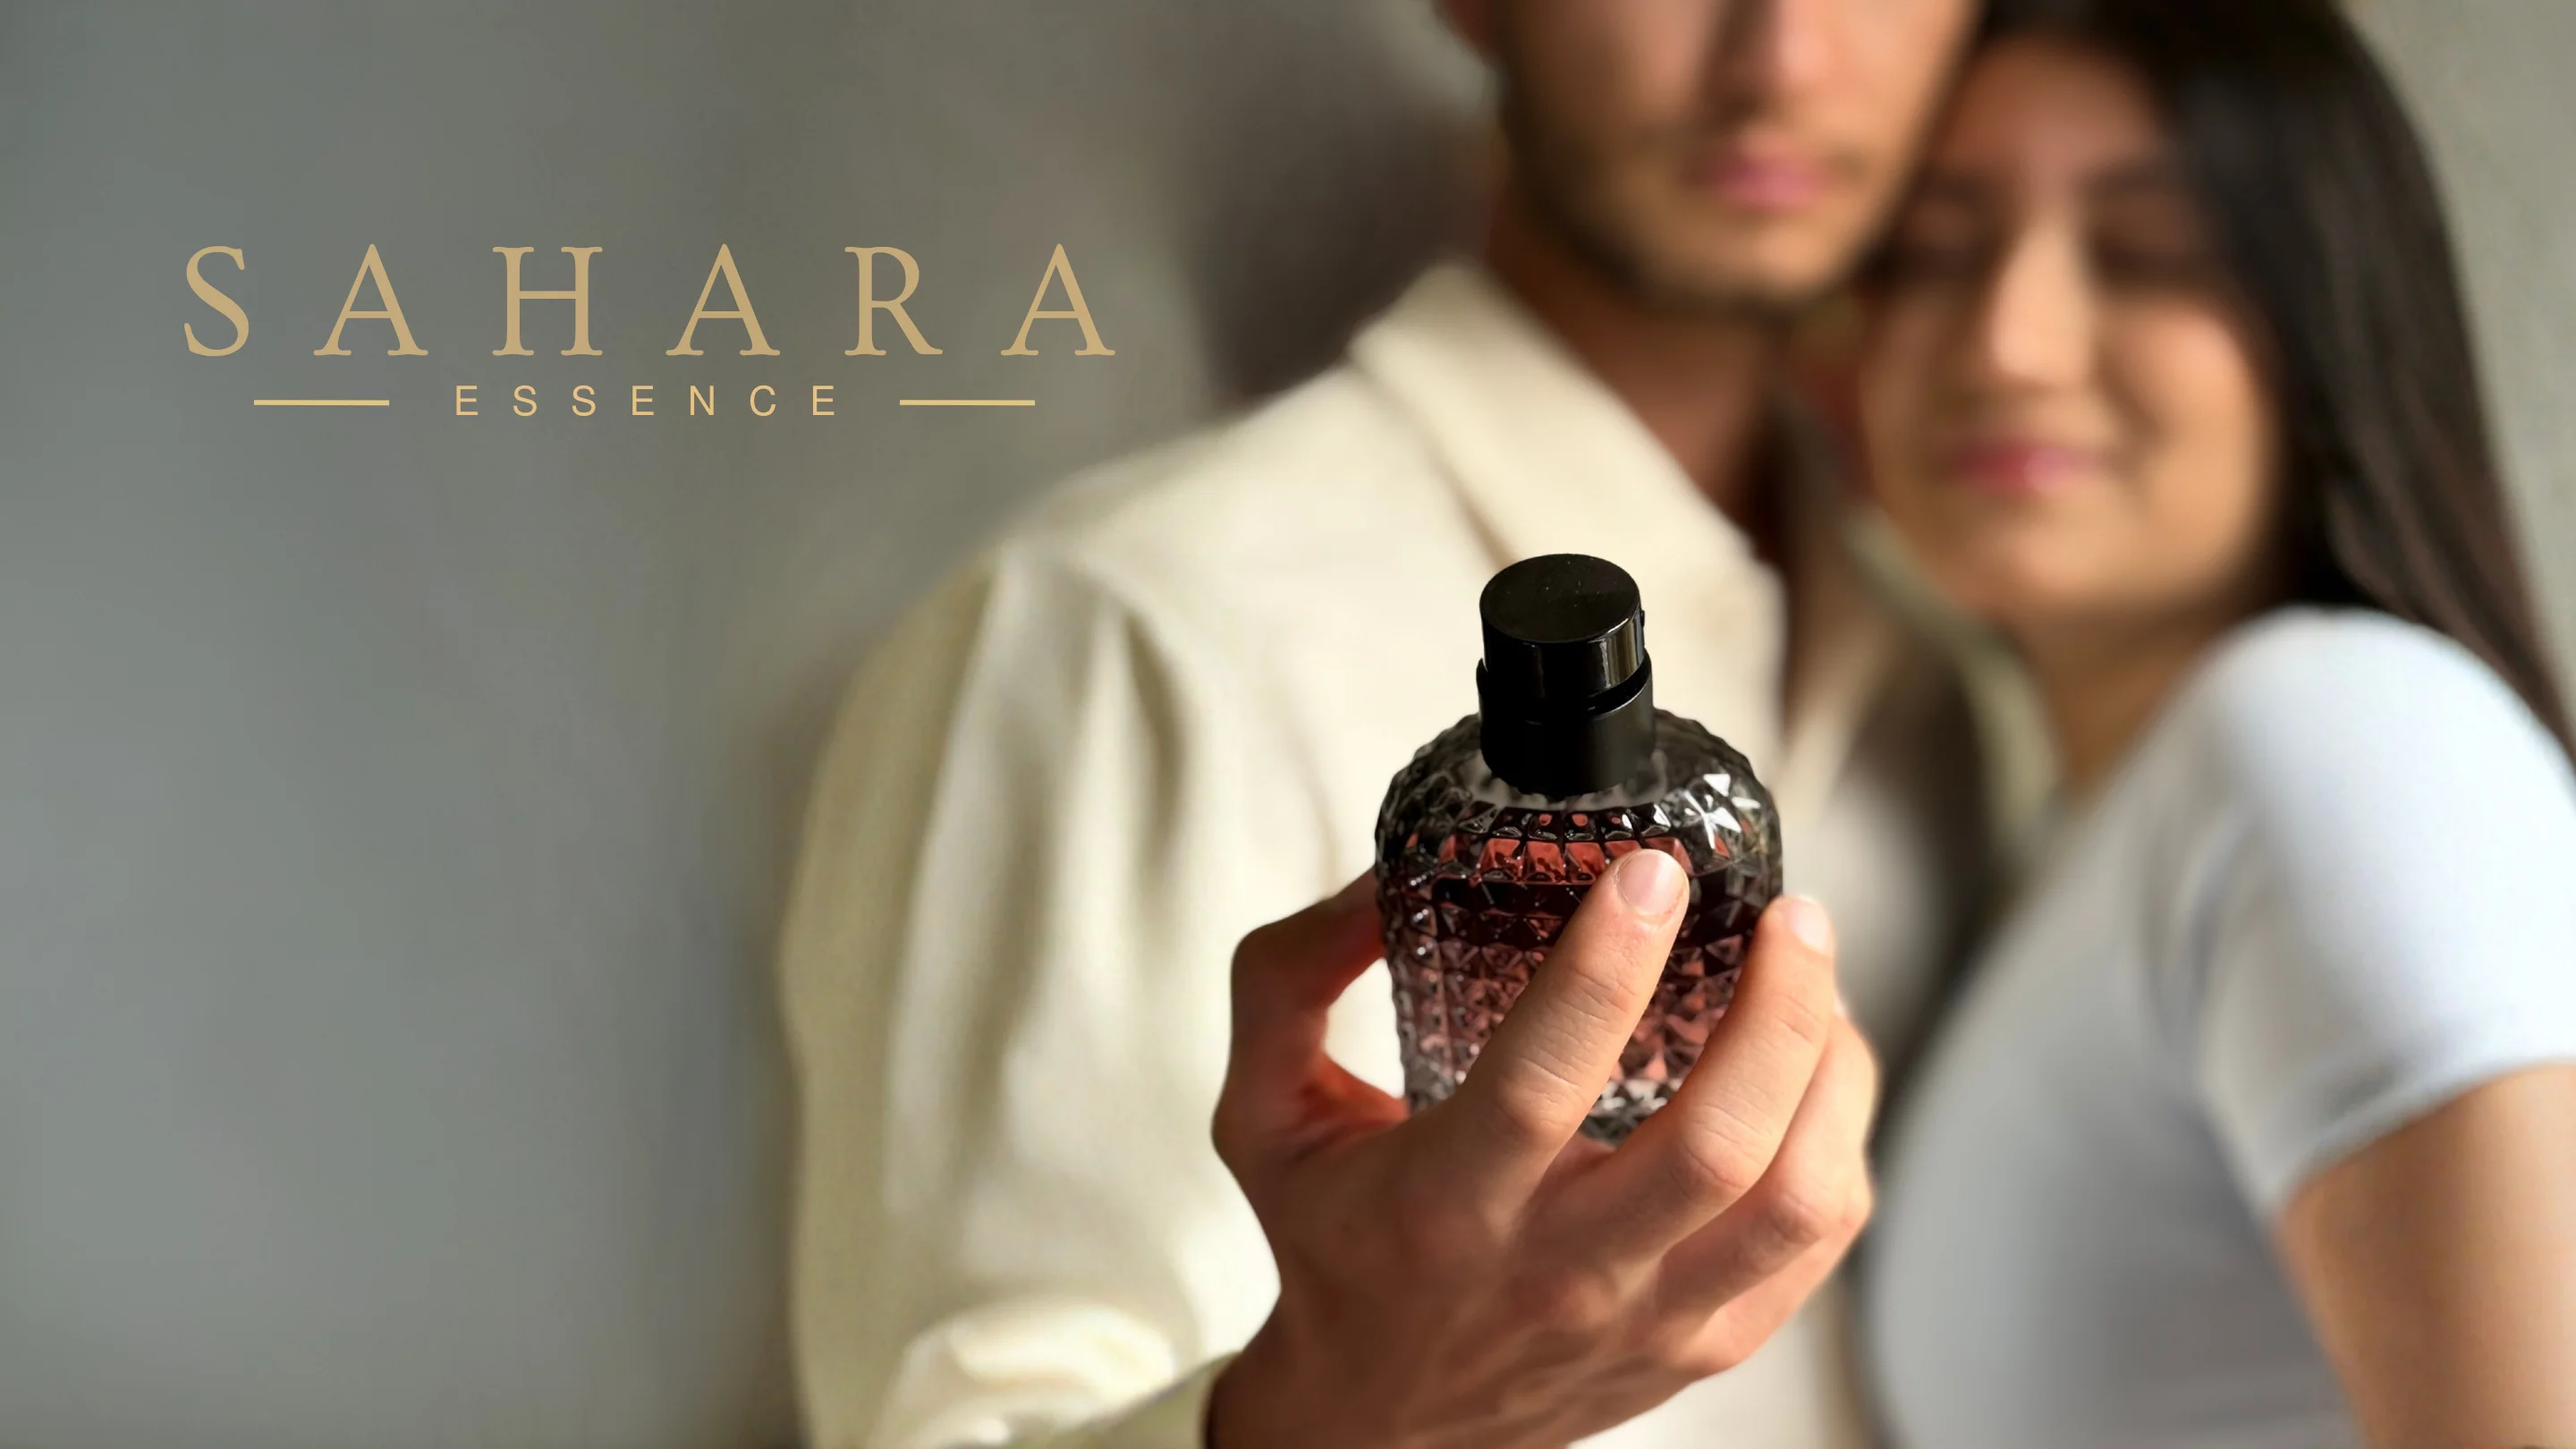
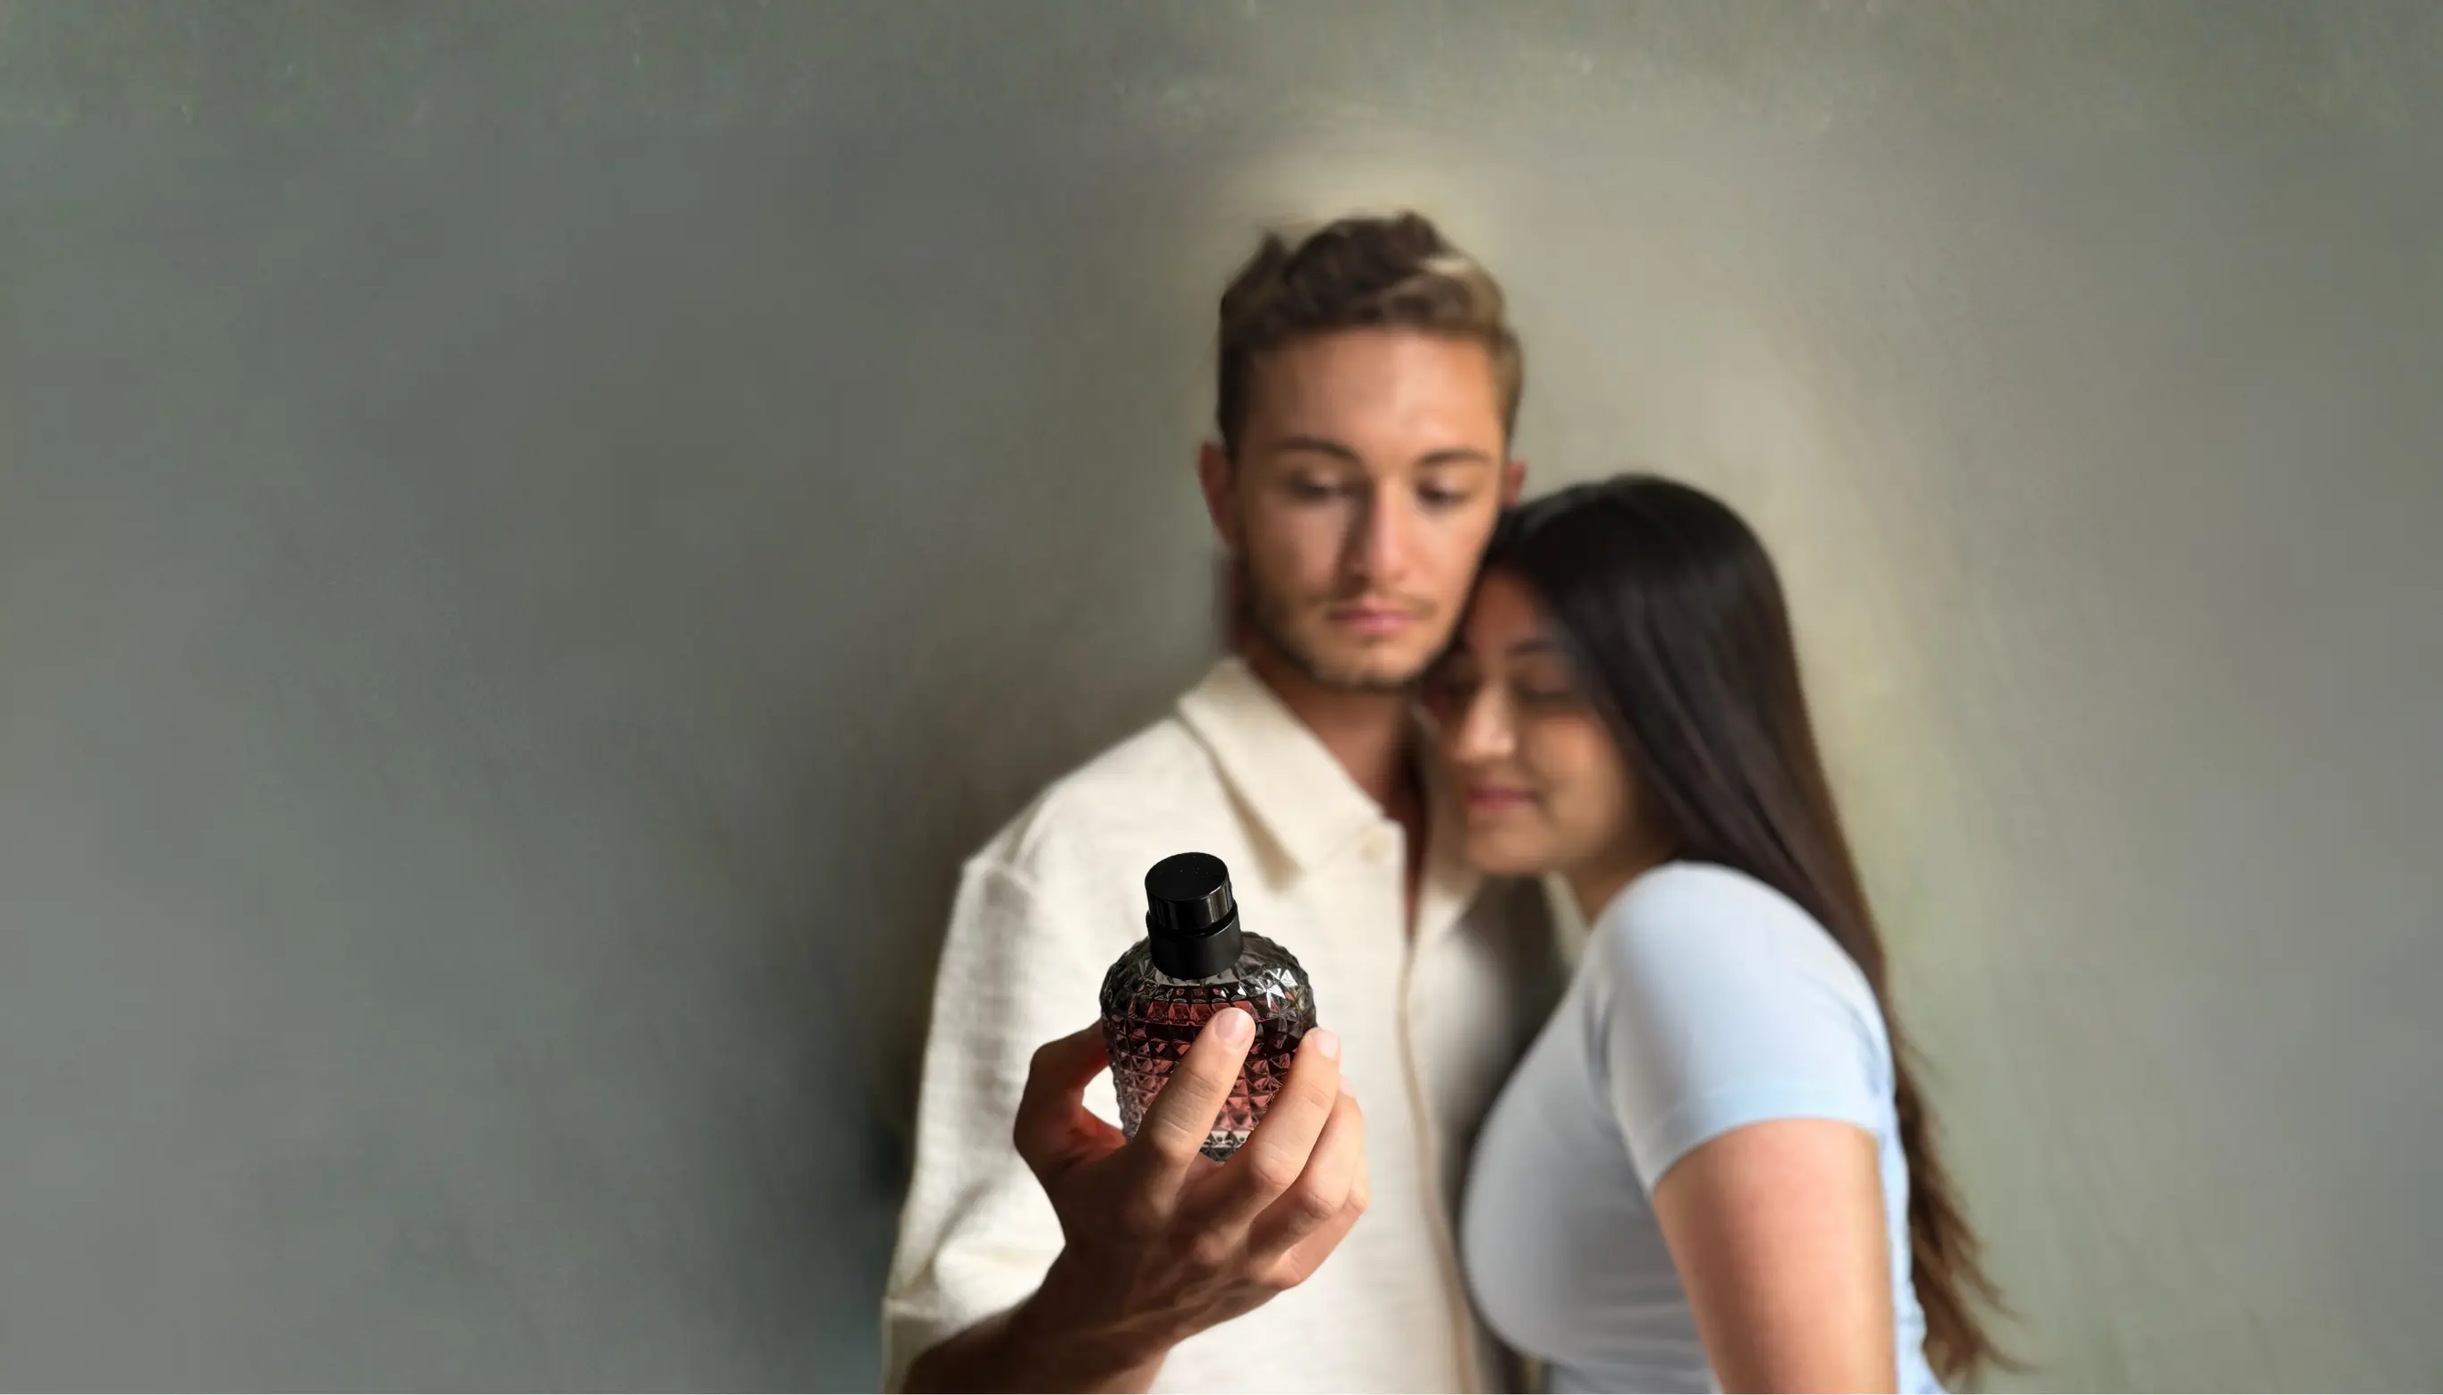
replace hero image, update colors and refine Aurora

diff --git a/components/AIChatButton.tsx b/components/AIChatButton.tsx
@@ -5,6 +5,7 @@ import { motion, AnimatePresence } from 'framer-motion';
 import { MessageSquare, X, Send, Sparkles } from 'lucide-react';
 import { cn, getPerfumeImageUrl } from '@/lib/utils';
 import { Tooltip, TooltipContent, TooltipProvider, TooltipTrigger } from '@/components/ui/tooltip';
+import Link from 'next/link';
 import Image from 'next/image';
 
 type Product = {
@@ -142,7 +143,7 @@ export default function AIChatButton() {
             className="relative w-[90vw] sm:w-100 md:w-[30rem] max-w-[95vw] h-[82vh] max-h-[700px] bg-white dark:bg-gray-900 rounded-2xl shadow-2xl overflow-hidden flex flex-col border border-gray-200 dark:border-gray-700"
           >
             {/* Header */}
-            <div className="bg-gradient-to-r from-amber-600 to-amber-800 p-4 text-white flex justify-between items-center shadow-md z-10">
+            <div className="bg-amber-600 p-4 text-white flex justify-between items-center shadow-md z-10">
               <div className="flex items-center gap-2">
                 <div className="p-1.5 bg-white/20 rounded-full">
                     <Sparkles size={16} />
@@ -190,11 +191,9 @@ export default function AIChatButton() {
                         className="flex gap-3 overflow-x-auto pb-4 w-full max-w-full px-1 snap-x no-scrollbar"
                       >
                           {message.data.map((product) => (
-                              <a 
+                              <Link 
                                 key={product.id} 
                                 href={`/catalog/${product.id}`}
-                                target="_blank"
-                                rel="noopener noreferrer" 
                                 className="min-w-[200px] max-w-[200px] bg-white dark:bg-gray-800 border dark:border-gray-700 rounded-xl overflow-hidden shadow-sm flex-shrink-0 snap-center hover:shadow-md transition-shadow group flex flex-col cursor-pointer"
                               >
                                   <div className="relative h-32 w-full bg-gray-100 dark:bg-gray-900 group-hover:scale-105 transition-transform duration-500">
@@ -217,7 +216,7 @@ export default function AIChatButton() {
                                         ✨ {product.reason}
                                       </div>
                                   </div>
-                              </a>
+                              </Link>
                           ))}
                       </motion.div>
                   )}
@@ -276,7 +275,7 @@ export default function AIChatButton() {
                   setShowTooltip(false);
                   setIsOpen(true);
                 }}
-                className="bg-gradient-to-r from-amber-600 to-amber-700 text-white p-4 md:p-5 rounded-full shadow-xl hover:shadow-2xl transition-all z-50 ring-4 ring-amber-100/50 dark:ring-amber-900/20"
+                className="bg-amber-600 text-white p-4 md:p-5 rounded-full shadow-xl hover:shadow-2xl transition-all z-50 ring-4 ring-amber-100/50 dark:ring-amber-900/20"
                 aria-label="Abrir chat"
               >
                 <div className="relative">

diff --git a/app/page.tsx b/app/page.tsx
@@ -292,7 +292,7 @@ export default function HomePage() {
       <section className="py-24 px-4 bg-muted/30">
         <div className="max-w-6xl mx-auto">
           <div ref={addToRefs}>
-            <h2 className="font-cormorant font-medium text-4xl md:text-5xl mb-4 text-center text-amber-600 dark:text-amber-400">
+            <h2 className="font-cormorant font-medium text-4xl md:text-6xl mb-4 text-center text-amber-600 dark:text-amber-400">
               Fragancias Destacadas
             </h2>
             <p className="font-inter text-lg text-muted-foreground text-center mb-12 max-w-2xl mx-auto">

diff --git a/components/CartButton.tsx b/components/CartButton.tsx
@@ -35,7 +35,7 @@ export function CartButton() {
           whileHover={{ scale: 1.05 }}
           whileTap={{ scale: 0.95 }}
           onClick={() => setIsOpen(true)}
-          className="relative bg-gradient-to-r from-amber-600 to-amber-700 text-white p-4 md:p-5 rounded-full shadow-lg hover:shadow-xl transition-all"
+          className="relative bg-amber-600 text-white p-4 md:p-5 rounded-full shadow-lg hover:shadow-xl transition-all"
           aria-label="Abrir carrito"
         >
           <ShoppingCart className="w-5 h-5 md:w-6 md:h-6" />

diff --git a/components/Footer.tsx b/components/Footer.tsx
@@ -38,7 +38,7 @@ export default function Footer() {
             transition={{ duration: 0.5 }}
             className="space-y-4"
           >
-            <h3 className="font-cormorant text-3xl font-semibold bg-gradient-to-r from-amber-600 to-orange-600 bg-clip-text text-transparent">
+            <h3 className="font-cormorant text-3xl font-semibold text-amber-600 dark:text-amber-400">
               Sahara Essence
             </h3>
             <p className="font-inter text-sm text-muted-foreground leading-relaxed">

diff --git a/app/catalog/[id]/page.tsx b/app/catalog/[id]/page.tsx
@@ -219,7 +219,7 @@ export default function PerfumeDetailPage() {
                 </div>
                 
                 <Button
-                  className="w-full bg-gradient-to-r from-emerald-600 to-amber-600 hover:from-emerald-700 hover:to-amber-700 text-white"
+                  className="w-full bg-amber-600 hover:bg-amber-700 text-white"
                   size="lg"
                   onClick={() => {
                     addToCart(perfume, 1)
